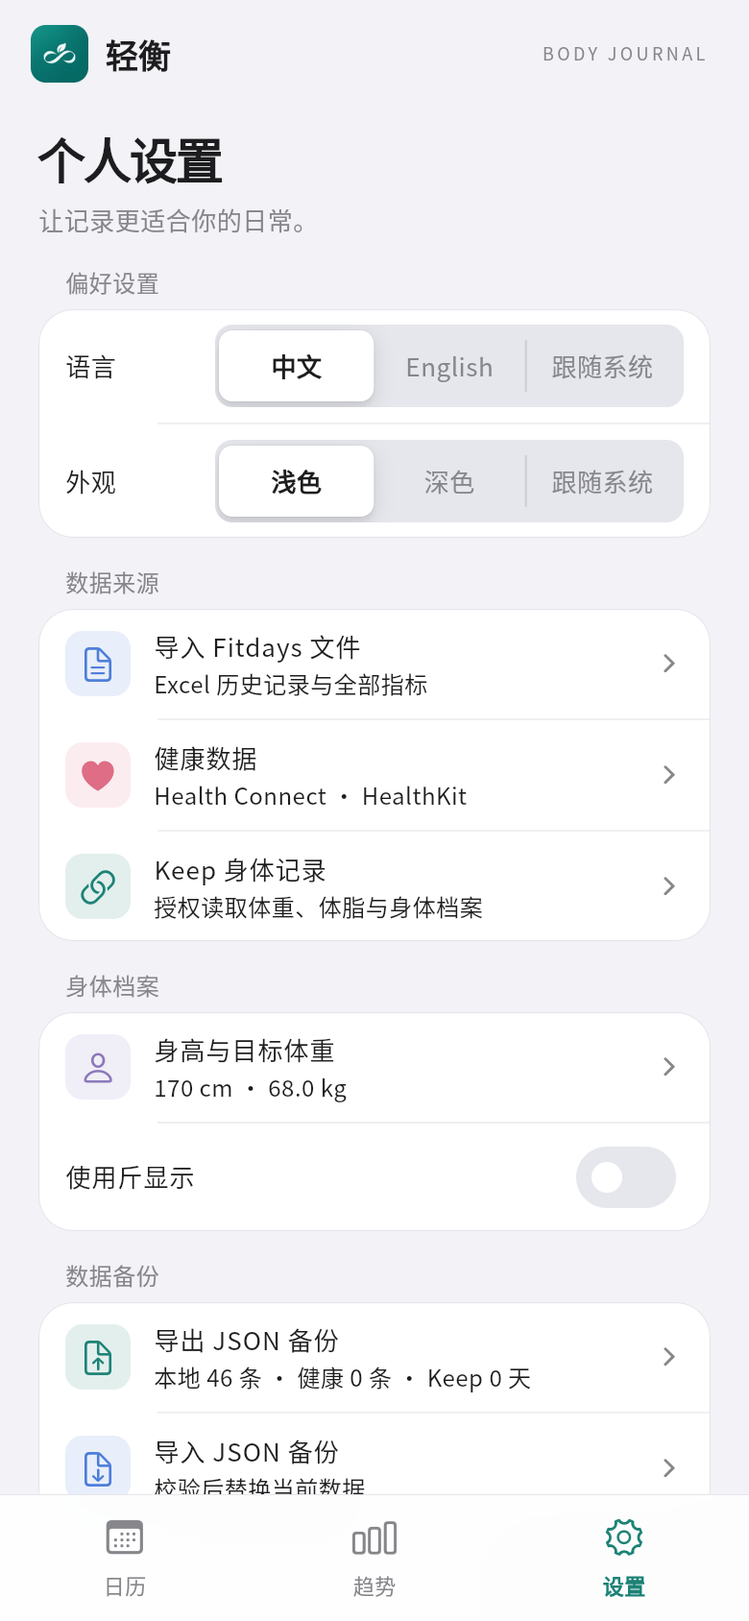
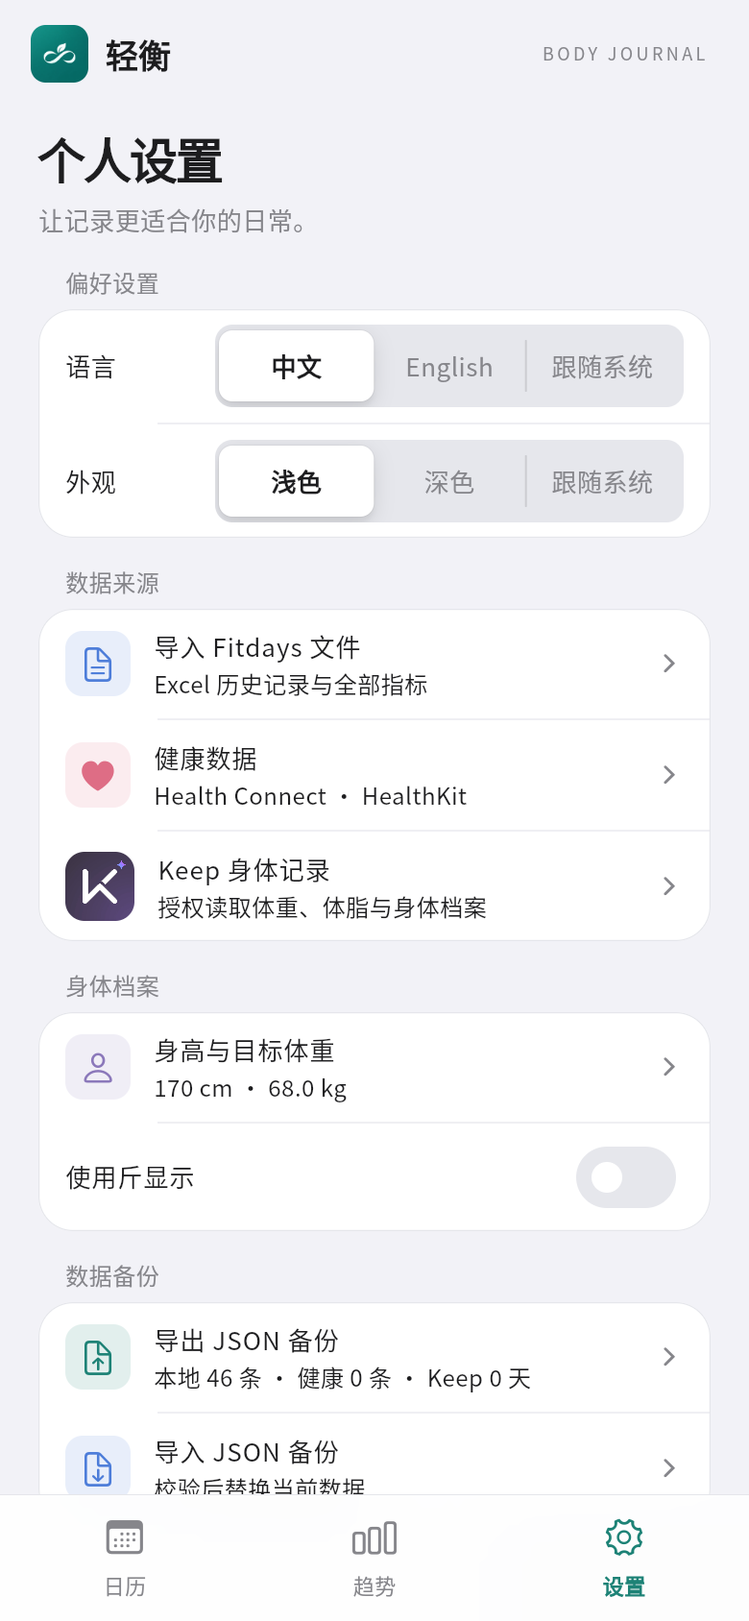
Update download sites for direct Keep authorization in 0.8.1

Changed region(s): [[0.2154, 0.5237, 0.4308, 0.5853], [0.4308, 0.5545, 0.6462, 0.5853], [0.0615, 0.5237, 0.1846, 0.5853]]

diff --git a/website/app.js b/website/app.js
@@ -1,5 +1,5 @@
-const zh={brandSub:'轻衡',navFeatures:'为什么是轻衡',navScreens:'界面一览',navDownload:'下载',navGet:'获取 Poise <span>↓</span>',eyebrow:'一份简单、私密的身体记录',heroTitle:'每一次改变，<br>都值得被看见。',heroDescription:'从今天的体重，到一段时间的趋势。<br>用轻衡，慢慢读懂自己的身体。',heroGet:'下载 Android 版',heroSource:'查看源码 <span>↗</span>',heroNote:'本机保存',heroNote2:'中英双语',heroNote3:'深浅两色',floatTitle:'变化，自有节奏。',floatSub:'看趋势，也接纳日常波动。',demo:'界面展示均为虚构演示数据',stripTitle:'你的记录，在这里汇合',featureKicker:'少一点繁琐，多一点清晰',featureTitle:'把关注，留给自己。',featureLead:'不需要复杂的仪表盘。<br>日常记录、长期变化，各有恰好的位置。',featureLink:'看看轻衡的样子 <span>↗</span>',f1Title:'一眼看清每一天',f1Body:'体重留在日历上，体脂率、BMI 和完整测量藏在每日卡片里。同日多次记录，左右轻滑切换。',f2Title:'让变化连成趋势',f2Body:'查看体重、体脂及导入指标的长期曲线。切换时间范围，对照目标，也看见真实的日常起伏。',f3Title:'让已有记录接着走',f3Body:'连接 Health Connect / HealthKit，打开 App 自动同步。也可以授权 Keep，预览后导入日期级体重和体脂；支持 Fitdays 表格导入。',screensKicker:'熟悉、轻盈、顺手',screensTitle:'简单，刚刚好。',light:'浅色',dark:'深色',screen1:'身体日历',screen1Sub:'把每一天，放回时间里。',screen2:'变化趋势',screen2Sub:'少看一次波动，多看一段变化。',screen3:'个人设置',screen3Sub:'让记录，更适合你的日常。',privacyKicker:'身体数据，留在自己手里',privacyTitle:'关心身体，也关心隐私。',privacyBody:'导入的健康记录保存在当前设备。系统健康接入仅读取；Keep 授权和查询直接连接 Keep 服务，不修改原始记录。登录凭据使用设备安全存储，不进入 JSON 备份。',downloadKicker:'开始你的下一次记录',downloadTitle:'轻一点，开始就好。',downloadLead:'下载轻衡，让变化慢慢变得清晰。',latest:'最新版本',githubGet:'GitHub 下载',apkLabel:'Android 通用安装包 · APK',mirrorGet:'小飞机网盘下载',mirrorPending:'分享链接准备中',mirrorReady:'国内网盘备用入口',installNote:'可覆盖安装旧版轻衡，保留原有数据。当前安装包使用测试签名。',releaseNotes:'查看更新说明 ↗',checksum:'复制 SHA-256 校验值',iosNote:'源码已支持 HealthKit，尚未发布可安装的 iOS 版本。',faqKicker:'开始之前',faqTitle:'你可能想知道。',q1:'没有智能秤，也能使用吗？',a1:'可以。你可以手动记录体重、体脂率与备注，也可以导入 Fitdays 导出的 .xlsx 历史记录。',q2:'自动同步需要怎么开启？',a2:'首次进入“设置 → 健康数据”，点击“授权并读取”完成连接。之后打开或回到 App 时会自动同步，可随时关闭。Android 当前最多读取近 30 天，且需要其他 App 已向系统写入记录。',q3:'换手机之前，需要做什么？',a3:'请先在设置中导出 JSON 备份并妥善保存，再在新设备导入。卸载 App 或清理数据可能导致本地记录丢失。',q4:'这些指标能作为医疗判断吗？',a4:'Poise 用于个人记录和趋势观察。体脂率来自测量或手动填写，BMI 按当前身高计算，均不用于医疗诊断。',q5:'如何导入 Keep 记录？',a5:'进入“设置 → Keep 身体记录”，授权连接后选择时间范围，读取并确认导入。最新身高可选导入；Keep BMI 单独预览。缺少测量时间时显示“仅日期”。当前 Keep 需手动预览导入，不自动同步；Android / iOS 原生 App 支持，网页版不支持连接。',footer:'记录变化，从容向前。'};
-const en={brandSub:'Body journal',navFeatures:'Why Poise',navScreens:'A closer look',navDownload:'Download',navGet:'Get Poise <span>↓</span>',eyebrow:'A SIMPLE, PRIVATE BODY JOURNAL',heroTitle:'Every small change.<br>Clearly seen.',heroDescription:'From today’s weight to your longer journey.<br>Get to know your body, one entry at a time.',heroGet:'Download for Android',heroSource:'View source <span>↗</span>',heroNote:'Stored on device',heroNote2:'English & Chinese',heroNote3:'Light & dark',floatTitle:'Progress has its own pace.',floatSub:'See the trend. Embrace the everyday.',demo:'Screens show fictional demo measurements',stripTitle:'Bring your measurements together',featureKicker:'LESS FRICTION. MORE CLARITY.',featureTitle:'Make room for yourself.',featureLead:'No complicated dashboard needed.<br>Your daily entries and the bigger picture, each in their place.',featureLink:'Take a closer look <span>↗</span>',f1Title:'A clear view of every day',f1Body:'Weight on your calendar. Body fat, BMI and full measurements in your daily card. Swipe through multiple entries without losing your place.',f2Title:'See a trend, not just a number',f2Body:'Follow weight, body fat and imported metrics over time. Choose a range, compare with your goal and make sense of daily fluctuations.',f3Title:'Let your history carry on',f3Body:'Connect Health Connect / HealthKit for sync on opening. Or authorize Keep, review and import daily weight and body fat. Fitdays spreadsheets are supported too.',screensKicker:'FAMILIAR. LIGHT. CONSIDERED.',screensTitle:'Simply enough.',light:'Light',dark:'Dark',screen1:'Body calendar',screen1Sub:'Give every day its place.',screen2:'Trends',screen2Sub:'Less noise. A little more perspective.',screen3:'Your settings',screen3Sub:'A journal that fits your everyday.',privacyKicker:'YOUR BODY DATA, IN YOUR HANDS',privacyTitle:'Care for your body. And your privacy.',privacyBody:'Imported health records stay on this device. System health access is read-only. Keep authorization and queries connect directly to Keep without changing original records. Login credentials use device secure storage and are excluded from JSON backups.',downloadKicker:'YOUR NEXT ENTRY STARTS HERE',downloadTitle:'A lighter way to begin.',downloadLead:'Get Poise. Let the bigger picture take shape.',latest:'Latest',githubGet:'Download from GitHub',apkLabel:'Universal Android installer · APK',mirrorGet:'Feejii cloud download',mirrorPending:'Share link being prepared',mirrorReady:'Alternative cloud download',installNote:'Update previous Qingheng builds without uninstalling to keep your records. This installer uses a test signature.',releaseNotes:'Release notes ↗',checksum:'Copy SHA-256 checksum',iosNote:'HealthKit is supported in the source. An installable iOS version is not yet available.',faqKicker:'BEFORE YOU BEGIN',faqTitle:'A few things to know.',q1:'Can I use Poise without a smart scale?',a1:'Yes. Enter weight, body fat and notes manually, or import your history from a Fitdays .xlsx export.',q2:'How do I turn on automatic sync?',a2:'Open Settings → Health data and tap Authorize and read once. Connected data then syncs when you open or return to the app. Turn it off at any time. Android currently reads up to the last 30 days; another app must have written measurements to the system.',q3:'What should I do before switching phones?',a3:'Export a JSON backup in Settings and keep it safe, then import it on your new device. Uninstalling the app or clearing its data may erase local records.',q4:'Can these metrics be used for medical decisions?',a4:'Poise is for personal tracking and observing trends. Body fat comes from measurements or manual entries. BMI uses your current height. None of these are intended for medical diagnosis.',q5:'How do I import Keep records?',a5:'Open Settings → Keep body journal, authorize, choose a range, then read, review and confirm. Latest height is optional; Keep BMI is previewed separately. Values without a measurement time are marked Date only. Keep import is manual in this version and is available in native Android / iOS apps, not Web.',footer:'Notice the change. Move at your own pace.'};
+const zh={brandSub:'轻衡',navFeatures:'为什么是轻衡',navScreens:'界面一览',navDownload:'下载',navGet:'获取 Poise <span>↓</span>',eyebrow:'一份简单、私密的身体记录',heroTitle:'每一次改变，<br>都值得被看见。',heroDescription:'从今天的体重，到一段时间的趋势。<br>用轻衡，慢慢读懂自己的身体。',heroGet:'下载 Android 版',heroSource:'查看源码 <span>↗</span>',heroNote:'本机保存',heroNote2:'中英双语',heroNote3:'深浅两色',floatTitle:'变化，自有节奏。',floatSub:'看趋势，也接纳日常波动。',demo:'界面展示均为虚构演示数据',stripTitle:'你的记录，在这里汇合',featureKicker:'少一点繁琐，多一点清晰',featureTitle:'把关注，留给自己。',featureLead:'不需要复杂的仪表盘。<br>日常记录、长期变化，各有恰好的位置。',featureLink:'看看轻衡的样子 <span>↗</span>',f1Title:'一眼看清每一天',f1Body:'体重留在日历上，体脂率、BMI 和完整测量藏在每日卡片里。同日多次记录，左右轻滑切换。',f2Title:'让变化连成趋势',f2Body:'查看体重、体脂及导入指标的长期曲线。切换时间范围，对照目标，也看见真实的日常起伏。',f3Title:'让已有记录接着走',f3Body:'连接 Health Connect / HealthKit，打开 App 自动同步。也可以授权 Keep，预览后导入日期级体重和体脂；支持 Fitdays 表格导入。',screensKicker:'熟悉、轻盈、顺手',screensTitle:'简单，刚刚好。',light:'浅色',dark:'深色',screen1:'身体日历',screen1Sub:'把每一天，放回时间里。',screen2:'变化趋势',screen2Sub:'少看一次波动，多看一段变化。',screen3:'个人设置',screen3Sub:'让记录，更适合你的日常。',privacyKicker:'身体数据，留在自己手里',privacyTitle:'关心身体，也关心隐私。',privacyBody:'导入的健康记录保存在当前设备。系统健康接入仅读取；Keep 授权和查询直接连接 Keep 服务，不修改原始记录。登录凭据使用设备安全存储，不进入 JSON 备份。',downloadKicker:'开始你的下一次记录',downloadTitle:'轻一点，开始就好。',downloadLead:'下载轻衡，让变化慢慢变得清晰。',latest:'最新版本',githubGet:'GitHub 下载',apkLabel:'Android 通用安装包 · APK',mirrorGet:'小飞机网盘下载',mirrorPending:'分享链接准备中',mirrorReady:'国内网盘备用入口',installNote:'可覆盖安装旧版轻衡，保留原有数据。当前安装包使用测试签名。',releaseNotes:'查看更新说明 ↗',checksum:'复制 SHA-256 校验值',iosNote:'源码已支持 HealthKit，尚未发布可安装的 iOS 版本。',faqKicker:'开始之前',faqTitle:'你可能想知道。',q1:'没有智能秤，也能使用吗？',a1:'可以。你可以手动记录体重、体脂率与备注，也可以导入 Fitdays 导出的 .xlsx 历史记录。',q2:'自动同步需要怎么开启？',a2:'首次进入“设置 → 健康数据”，点击“授权并读取”完成连接。之后打开或回到 App 时会自动同步，可随时关闭。Android 当前最多读取近 30 天，且需要其他 App 已向系统写入记录。',q3:'换手机之前，需要做什么？',a3:'请先在设置中导出 JSON 备份并妥善保存，再在新设备导入。卸载 App 或清理数据可能导致本地记录丢失。',q4:'这些指标能作为医疗判断吗？',a4:'Poise 用于个人记录和趋势观察。体脂率来自测量或手动填写，BMI 按当前身高计算，均不用于医疗诊断。',q5:'如何导入 Keep 记录？',a5:'进入“设置 → Keep 身体记录”，检测到本机 Keep 后直接唤起授权，不展示二维码；未安装时先安装并登录 Keep。授权后选择时间范围，读取并确认导入。最新身高可选导入；Keep BMI 单独预览。缺少测量时间时显示“仅日期”。当前 Keep 需手动预览导入，不自动同步；Android / iOS 原生 App 支持，网页版不支持连接。',footer:'记录变化，从容向前。'};
+const en={brandSub:'Body journal',navFeatures:'Why Poise',navScreens:'A closer look',navDownload:'Download',navGet:'Get Poise <span>↓</span>',eyebrow:'A SIMPLE, PRIVATE BODY JOURNAL',heroTitle:'Every small change.<br>Clearly seen.',heroDescription:'From today’s weight to your longer journey.<br>Get to know your body, one entry at a time.',heroGet:'Download for Android',heroSource:'View source <span>↗</span>',heroNote:'Stored on device',heroNote2:'English & Chinese',heroNote3:'Light & dark',floatTitle:'Progress has its own pace.',floatSub:'See the trend. Embrace the everyday.',demo:'Screens show fictional demo measurements',stripTitle:'Bring your measurements together',featureKicker:'LESS FRICTION. MORE CLARITY.',featureTitle:'Make room for yourself.',featureLead:'No complicated dashboard needed.<br>Your daily entries and the bigger picture, each in their place.',featureLink:'Take a closer look <span>↗</span>',f1Title:'A clear view of every day',f1Body:'Weight on your calendar. Body fat, BMI and full measurements in your daily card. Swipe through multiple entries without losing your place.',f2Title:'See a trend, not just a number',f2Body:'Follow weight, body fat and imported metrics over time. Choose a range, compare with your goal and make sense of daily fluctuations.',f3Title:'Let your history carry on',f3Body:'Connect Health Connect / HealthKit for sync on opening. Or authorize Keep, review and import daily weight and body fat. Fitdays spreadsheets are supported too.',screensKicker:'FAMILIAR. LIGHT. CONSIDERED.',screensTitle:'Simply enough.',light:'Light',dark:'Dark',screen1:'Body calendar',screen1Sub:'Give every day its place.',screen2:'Trends',screen2Sub:'Less noise. A little more perspective.',screen3:'Your settings',screen3Sub:'A journal that fits your everyday.',privacyKicker:'YOUR BODY DATA, IN YOUR HANDS',privacyTitle:'Care for your body. And your privacy.',privacyBody:'Imported health records stay on this device. System health access is read-only. Keep authorization and queries connect directly to Keep without changing original records. Login credentials use device secure storage and are excluded from JSON backups.',downloadKicker:'YOUR NEXT ENTRY STARTS HERE',downloadTitle:'A lighter way to begin.',downloadLead:'Get Poise. Let the bigger picture take shape.',latest:'Latest',githubGet:'Download from GitHub',apkLabel:'Universal Android installer · APK',mirrorGet:'Feejii cloud download',mirrorPending:'Share link being prepared',mirrorReady:'Alternative cloud download',installNote:'Update previous Qingheng builds without uninstalling to keep your records. This installer uses a test signature.',releaseNotes:'Release notes ↗',checksum:'Copy SHA-256 checksum',iosNote:'HealthKit is supported in the source. An installable iOS version is not yet available.',faqKicker:'BEFORE YOU BEGIN',faqTitle:'A few things to know.',q1:'Can I use Poise without a smart scale?',a1:'Yes. Enter weight, body fat and notes manually, or import your history from a Fitdays .xlsx export.',q2:'How do I turn on automatic sync?',a2:'Open Settings → Health data and tap Authorize and read once. Connected data then syncs when you open or return to the app. Turn it off at any time. Android currently reads up to the last 30 days; another app must have written measurements to the system.',q3:'What should I do before switching phones?',a3:'Export a JSON backup in Settings and keep it safe, then import it on your new device. Uninstalling the app or clearing its data may erase local records.',q4:'Can these metrics be used for medical decisions?',a4:'Poise is for personal tracking and observing trends. Body fat comes from measurements or manual entries. BMI uses your current height. None of these are intended for medical diagnosis.',q5:'How do I import Keep records?',a5:'Open Settings → Keep body journal. Poise checks for Keep and opens it directly for authorization, without a QR image. Install Keep and sign in first if missing. Then choose a range, read, review and confirm. Latest height is optional; Keep BMI is previewed separately. Values without a measurement time are marked Date only. Keep import is manual in this version and is available in native Android / iOS apps, not Web.',footer:'Notice the change. Move at your own pace.'};
 let lang='zh',mode='light',release=null,toastTimer;
 try{lang=localStorage.getItem('poise-site-language')==='en'?'en':'zh';}catch{}
 function shot(page){return `assets/${page}${lang==='en'?'-en':''}${mode==='dark'?'-dark':''}.png`;}

diff --git a/website/index.html b/website/index.html
@@ -34,8 +34,8 @@
 <section class="screens-section" id="screens"><div class="shell section"><div class="screens-heading"><div><span class="kicker" data-t="screensKicker">熟悉、轻盈、顺手</span><h2 data-t="screensTitle">简单，刚刚好。</h2></div><div class="mode-switch" aria-label="Screenshot appearance"><button class="selected" data-mode="light" aria-pressed="true" data-t="light">浅色</button><button data-mode="dark" aria-pressed="false" data-t="dark">深色</button></div></div>
 <div class="screen-grid"><figure><div class="screen-frame"><img data-shot="calendar" src="assets/calendar.png" width="780" height="1688" loading="lazy" alt="Calendar screenshot"></div><figcaption><span>01</span><strong data-t="screen1">身体日历</strong><small data-t="screen1Sub">把每一天，放回时间里。</small></figcaption></figure><figure><div class="screen-frame"><img data-shot="trend" src="assets/trend.png" width="780" height="1688" loading="lazy" alt="Trends screenshot"></div><figcaption><span>02</span><strong data-t="screen2">变化趋势</strong><small data-t="screen2Sub">少看一次波动，多看一段变化。</small></figcaption></figure><figure><div class="screen-frame"><img data-shot="settings" src="assets/settings.png" width="780" height="1688" loading="lazy" alt="Settings screenshot"></div><figcaption><span>03</span><strong data-t="screen3">个人设置</strong><small data-t="screen3Sub">让记录，更适合你的日常。</small></figcaption></figure></div><p class="screens-caption" data-t="demo">界面展示均为虚构演示数据</p></div></section>
 <section class="privacy shell section"><div class="privacy-symbol" aria-hidden="true"><svg viewBox="0 0 80 80" fill="none"><path d="M40 9 65 19v21c0 15-12 25-25 32C27 65 15 55 15 40V19L40 9Z" stroke="currentColor" stroke-width="2"/><rect x="29" y="34" width="22" height="20" rx="5" stroke="currentColor" stroke-width="2"/><path d="M33 34v-7a7 7 0 0 1 14 0v7" stroke="currentColor" stroke-width="2"/></svg></div><div><span class="kicker" data-t="privacyKicker">身体数据，留在自己手里</span><h2 data-t="privacyTitle">关心身体，也关心隐私。</h2><p data-t="privacyBody">导入的健康记录保存在当前设备。系统健康接入仅读取；Keep 授权和查询直接连接 Keep 服务，不修改原始记录。登录凭据使用设备安全存储，不进入 JSON 备份。</p></div></section>
-<section class="download-section" id="download"><div class="shell section"><div class="download-intro"><span class="kicker" data-t="downloadKicker">开始你的下一次记录</span><h2 data-t="downloadTitle">轻一点，开始就好。</h2><p data-t="downloadLead">下载轻衡，让变化慢慢变得清晰。</p></div><div class="download-card"><div class="app-release"><img src="assets/poise.png" width="76" height="76" alt="Poise app icon"><div><h3>Poise <span data-t="brandSub">轻衡</span></h3><p><span id="version">v0.8.0</span><span>Android 8.0+</span><span id="fileSize">65.8 MB</span></p></div><span class="release-badge" data-t="latest">最新版本</span></div><div class="download-options"><a id="githubDownload" class="button primary" href="https://github.com/wang161113/Poise/releases/download/v0.8.0/poise-0.8.0-universal.apk"><span><strong data-t="githubGet">GitHub 下载</strong><small data-t="apkLabel">Android 通用安装包 · APK</small></span><span aria-hidden="true">↓</span></a><a id="mirrorDownload" class="button mirror" href="https://share.feijipan.com/s/rkzwo9yr" target="_blank" rel="noopener"><span><strong data-t="mirrorGet">小飞机网盘下载</strong><small id="mirrorHint" data-t="mirrorReady">国内网盘备用入口</small></span><span aria-hidden="true">↗</span></a></div><p class="install-note" data-t="installNote">可覆盖安装旧版轻衡，保留原有数据。当前安装包使用测试签名。</p><div class="release-links"><a href="https://github.com/wang161113/Poise/releases/tag/v0.8.0" target="_blank" rel="noopener" data-t="releaseNotes">查看更新说明 ↗</a><button id="checksum" data-t="checksum">复制 SHA-256 校验值</button></div><p class="ios-note"><span>iOS</span><span data-t="iosNote">源码已支持 HealthKit，尚未发布可安装的 iOS 版本。</span></p></div></div></section>
-<section class="faq shell section"><div><span class="kicker" data-t="faqKicker">开始之前</span><h2 data-t="faqTitle">你可能想知道。</h2></div><div class="faq-list"><details><summary data-t="q1">没有智能秤，也能使用吗？</summary><p data-t="a1">可以。你可以手动记录体重、体脂率与备注，也可以导入 Fitdays 导出的 .xlsx 历史记录。</p></details><details><summary data-t="q2">自动同步需要怎么开启？</summary><p data-t="a2">首次进入“设置 → 健康数据”，点击“授权并读取”完成连接。之后打开或回到 App 时会自动同步，可随时关闭。Android 当前最多读取近 30 天，且需要其他 App 已向系统写入记录。</p></details><details><summary data-t="q5">如何导入 Keep 记录？</summary><p data-t="a5">进入“设置 → Keep 身体记录”，授权连接后选择时间范围，读取并确认导入。最新身高可选导入；Keep BMI 单独预览。缺少测量时间时显示“仅日期”。当前 Keep 需手动预览导入，不自动同步；Android / iOS 原生 App 支持，网页版不支持连接。</p></details><details><summary data-t="q3">换手机之前，需要做什么？</summary><p data-t="a3">请先在设置中导出 JSON 备份并妥善保存，再在新设备导入。卸载 App 或清理数据可能导致本地记录丢失。</p></details><details><summary data-t="q4">这些指标能作为医疗判断吗？</summary><p data-t="a4">Poise 用于个人记录和趋势观察。体脂率来自测量或手动填写，BMI 按当前身高计算，均不用于医疗诊断。</p></details></div></section>
+<section class="download-section" id="download"><div class="shell section"><div class="download-intro"><span class="kicker" data-t="downloadKicker">开始你的下一次记录</span><h2 data-t="downloadTitle">轻一点，开始就好。</h2><p data-t="downloadLead">下载轻衡，让变化慢慢变得清晰。</p></div><div class="download-card"><div class="app-release"><img src="assets/poise.png" width="76" height="76" alt="Poise app icon"><div><h3>Poise <span data-t="brandSub">轻衡</span></h3><p><span id="version">v0.8.1</span><span>Android 8.0+</span><span id="fileSize">65.8 MB</span></p></div><span class="release-badge" data-t="latest">最新版本</span></div><div class="download-options"><a id="githubDownload" class="button primary" href="https://github.com/wang161113/Poise/releases/download/v0.8.1/poise-0.8.1-universal.apk"><span><strong data-t="githubGet">GitHub 下载</strong><small data-t="apkLabel">Android 通用安装包 · APK</small></span><span aria-hidden="true">↓</span></a><a id="mirrorDownload" class="button mirror" href="https://share.feijipan.com/s/b4zwSTA4" target="_blank" rel="noopener"><span><strong data-t="mirrorGet">小飞机网盘下载</strong><small id="mirrorHint" data-t="mirrorReady">国内网盘备用入口</small></span><span aria-hidden="true">↗</span></a></div><p class="install-note" data-t="installNote">可覆盖安装旧版轻衡，保留原有数据。当前安装包使用测试签名。</p><div class="release-links"><a href="https://github.com/wang161113/Poise/releases/tag/v0.8.1" target="_blank" rel="noopener" data-t="releaseNotes">查看更新说明 ↗</a><button id="checksum" data-t="checksum">复制 SHA-256 校验值</button></div><p class="ios-note"><span>iOS</span><span data-t="iosNote">源码已支持 HealthKit，尚未发布可安装的 iOS 版本。</span></p></div></div></section>
+<section class="faq shell section"><div><span class="kicker" data-t="faqKicker">开始之前</span><h2 data-t="faqTitle">你可能想知道。</h2></div><div class="faq-list"><details><summary data-t="q1">没有智能秤，也能使用吗？</summary><p data-t="a1">可以。你可以手动记录体重、体脂率与备注，也可以导入 Fitdays 导出的 .xlsx 历史记录。</p></details><details><summary data-t="q2">自动同步需要怎么开启？</summary><p data-t="a2">首次进入“设置 → 健康数据”，点击“授权并读取”完成连接。之后打开或回到 App 时会自动同步，可随时关闭。Android 当前最多读取近 30 天，且需要其他 App 已向系统写入记录。</p></details><details><summary data-t="q5">如何导入 Keep 记录？</summary><p data-t="a5">进入“设置 → Keep 身体记录”，检测到本机 Keep 后直接唤起授权，不展示二维码；未安装时先安装并登录 Keep。授权后选择时间范围，读取并确认导入。最新身高可选导入；Keep BMI 单独预览。缺少测量时间时显示“仅日期”。当前 Keep 需手动预览导入，不自动同步；Android / iOS 原生 App 支持，网页版不支持连接。</p></details><details><summary data-t="q3">换手机之前，需要做什么？</summary><p data-t="a3">请先在设置中导出 JSON 备份并妥善保存，再在新设备导入。卸载 App 或清理数据可能导致本地记录丢失。</p></details><details><summary data-t="q4">这些指标能作为医疗判断吗？</summary><p data-t="a4">Poise 用于个人记录和趋势观察。体脂率来自测量或手动填写，BMI 按当前身高计算，均不用于医疗诊断。</p></details></div></section>
 </main>
 <footer class="shell footer"><a href="#" class="brand"><img src="assets/poise.png" width="28" height="28" alt=""><span>Poise</span></a><p data-t="footer">记录变化，从容向前。</p><a href="https://github.com/wang161113/Poise" target="_blank" rel="noopener">GitHub ↗</a></footer>
 <div id="toast" role="status" aria-live="polite"></div><script src="app.js"></script>
